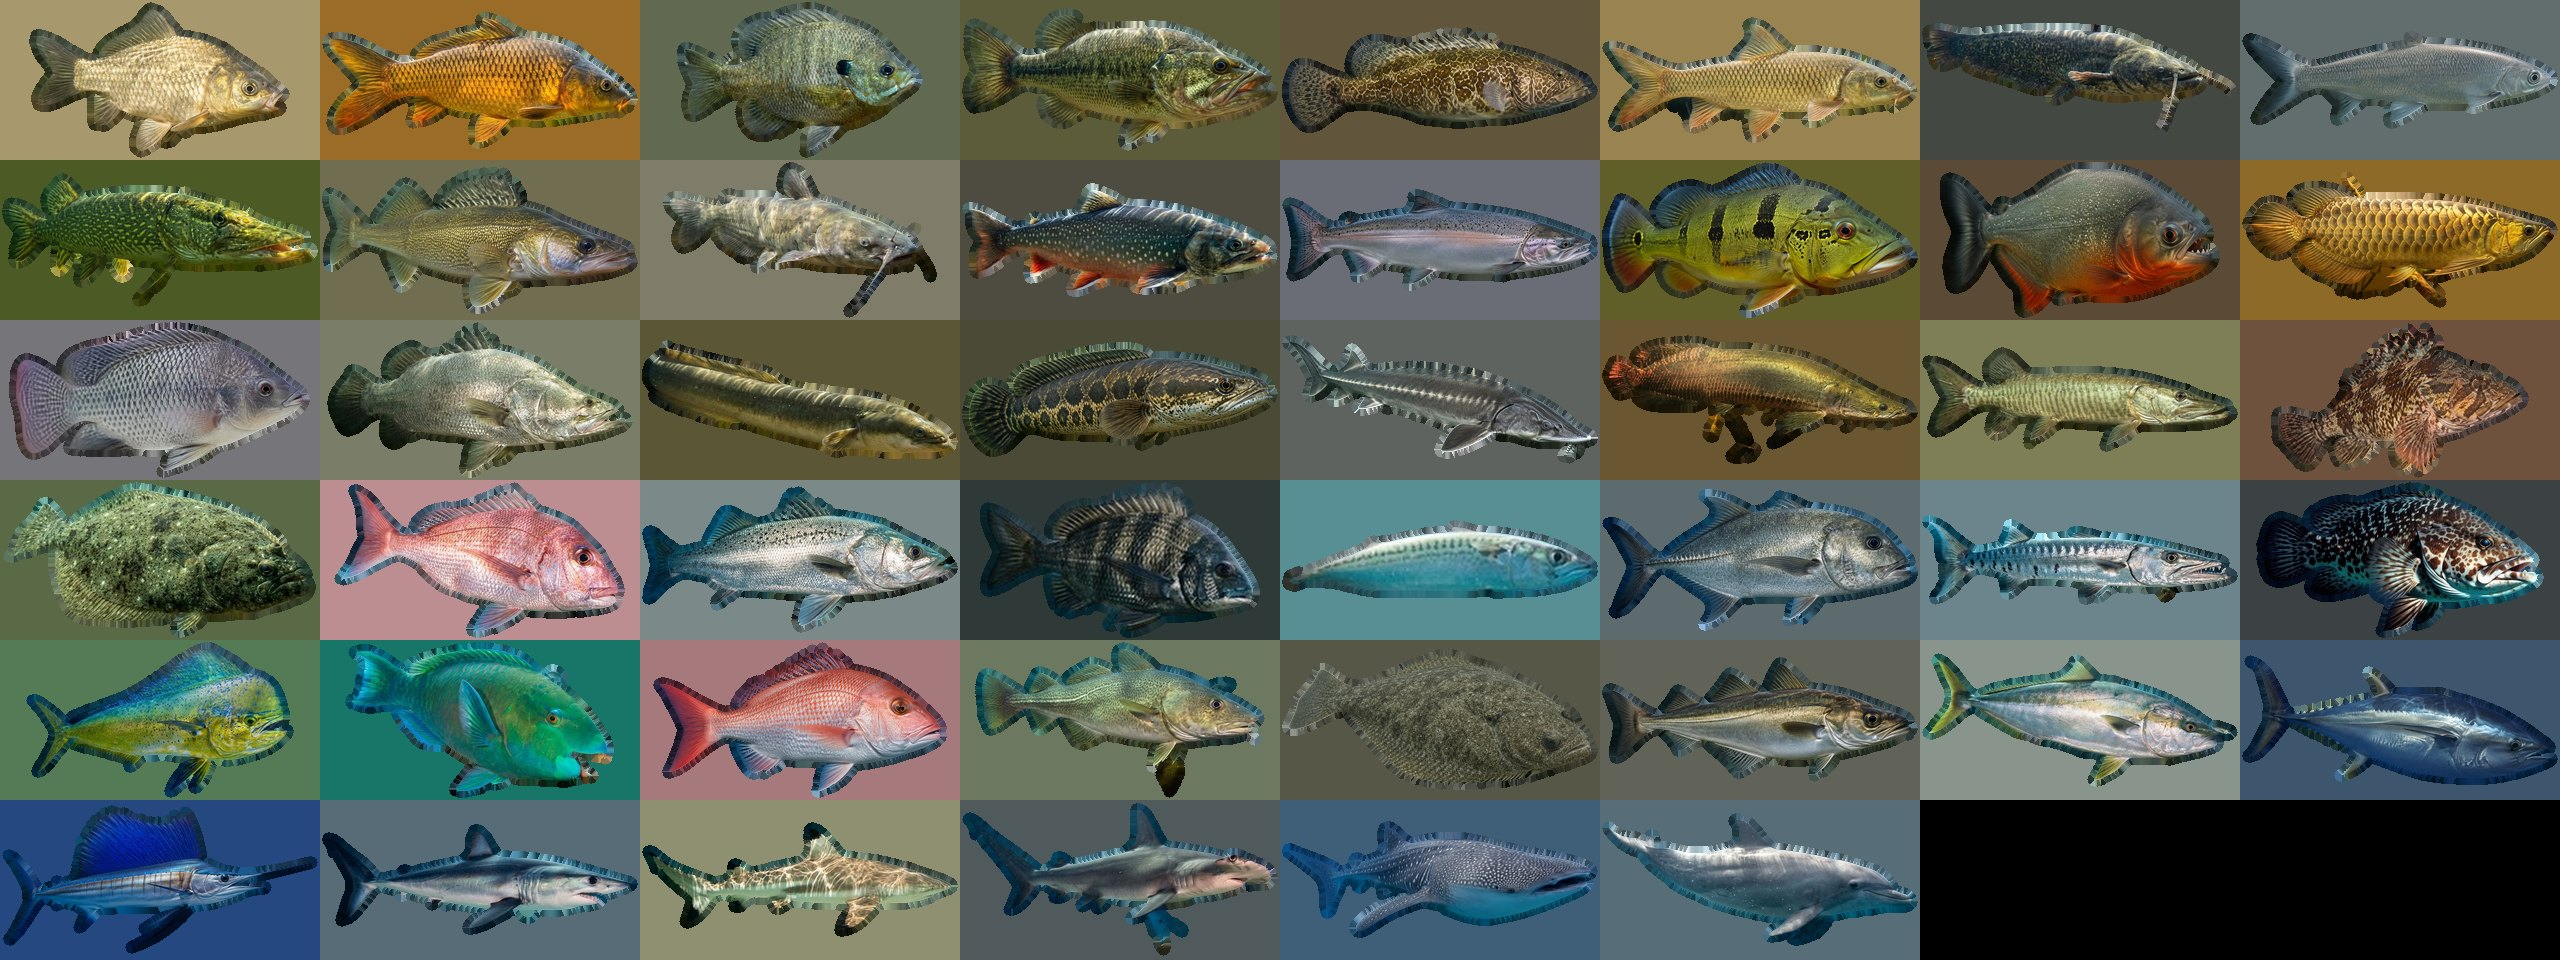
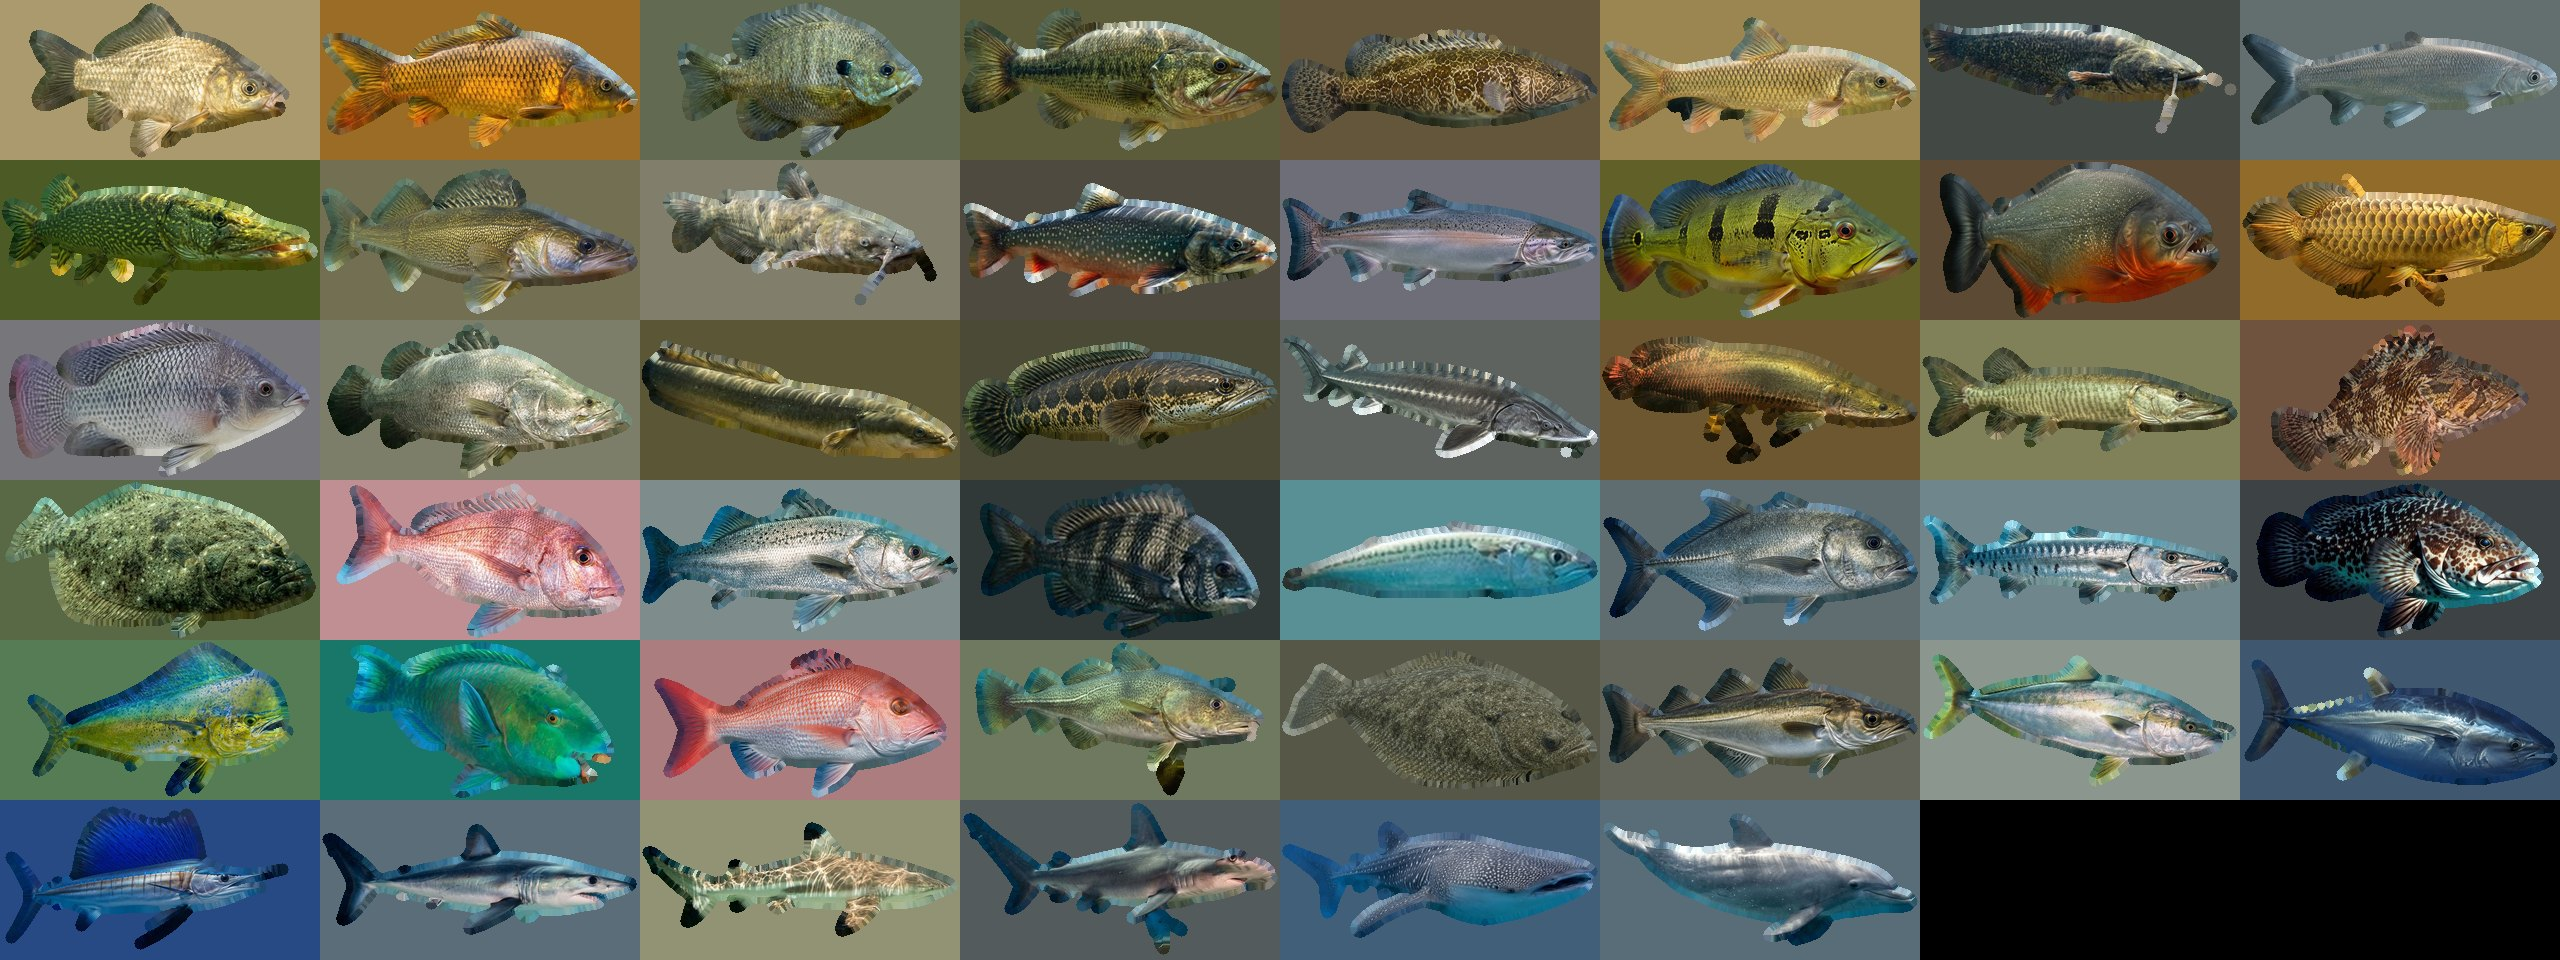
Photo fish: smooth thickness map (built at 2x from an antialiased mask, signed ramp at the edge, blurred) so silhouettes and body contours no longer stair-step or streak; fins and rims fall off to a few mm instead of slices of body
Claude-Session: https://claude.ai/code/session_01KxqjmLRbk5F9vSotCg7zP4

diff --git a/js/renderer.js b/js/renderer.js
@@ -734,7 +734,9 @@ float photoFish(vec3 ro, vec3 rd, float tMax, vec3 c, float Lf, mat3 B, vec4 E, 
   if (t0 >= t1) return -1.0;
   vec2 uv0 = E.xy, duv = E.zw - E.xy;
   float lod = log2(max(1.0, max(t0, 0.3)*uPixAng*duv.x*float(textureSize(uFishT, 0).x)/Lf));
-  #define FTH(q) (textureLod(uFishT, uv0 + duv*vec2(0.5 + (q).x/Lf, 0.5 - (q).y/(Lf*asp)), lod).r)
+  // the map stores 0.1 + 0.9·thickness inside and a short ramp below 0.1 outside, so the silhouette (0.1) is smooth
+  #define FTR(q) (textureLod(uFishT, uv0 + duv*vec2(0.5 + (q).x/Lf, 0.5 - (q).y/(Lf*asp)), lod).r)
+  #define FTH(q) (max(FTR(q) - 0.1, 0.0)*1.1111)
   // Thin parts (fins, tail) are far thinner than a march step, so besides the thickness test each step also
   // checks whether the ray crossed the body's midline sheet; a crossing inside the silhouette is a hit.
   const int NS = 16;
@@ -744,17 +746,17 @@ float photoFish(vec3 ro, vec3 rd, float tMax, vec3 c, float Lf, mat3 B, vec4 E, 
   for (int k=0; k<=NS; k++){
     float tt = t0 + dt*float(k); vec3 q = o + d*tt; float th = FTH(q);
     float g = q.z - fishOff(q.x, Lf, G);
-    if (th > 0.012 && T*th > abs(g)){ t = tt; break; }
+    if (th > 0.0 && T*th > abs(g)){ t = tt; break; }
     if (k > 0 && g*gp <= 0.0){
       float tc = mix(ta0, tt, gp/(gp - g + 1e-9)); vec3 qc = o + d*tc;
-      if (FTH(qc) > 0.012){ t = tc; sheet = true; break; }
+      if (FTR(qc) > 0.1){ t = tc; sheet = true; break; }
     }
     ta0 = tt; gp = g;
   }
   if (t < 0.0) return -1.0;
   if (!sheet) for (int j=0; j<5; j++){   // refine between the last outside and the first inside sample
     float m = 0.5*(ta0 + t); vec3 q = o + d*m; float th = FTH(q);
-    if (th > 0.012 && T*th > abs(q.z - fishOff(q.x, Lf, G))) t = m; else ta0 = m;
+    if (th > 0.0 && T*th > abs(q.z - fishOff(q.x, Lf, G))) t = m; else ta0 = m;
   }
   vec3 q = o + d*t;
   float e = Lf*0.012, off = fishOff(q.x, Lf, G), s = q.z >= off ? 1.0 : -1.0;
@@ -767,6 +769,7 @@ float photoFish(vec3 ro, vec3 rd, float tMax, vec3 c, float Lf, mat3 B, vec4 E, 
   N = normalize(B*mix(vec3(-s*ofx, 0.0, s), vec3(-T*thx - s*ofx, -T*thy, s), smoothstep(0.05, 0.25, thq)));
   alb = textureLod(uFishC, uv0 + duv*vec2(0.5 + q.x/Lf, 0.5 - q.y/(Lf*asp)), lod).rgb*1.6;
   #undef FTH
+  #undef FTR
   return t;
 }
 
